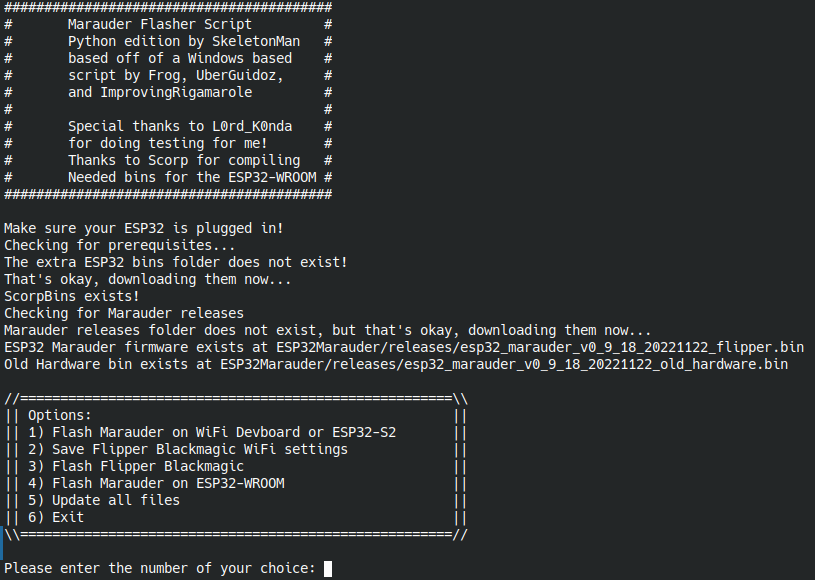
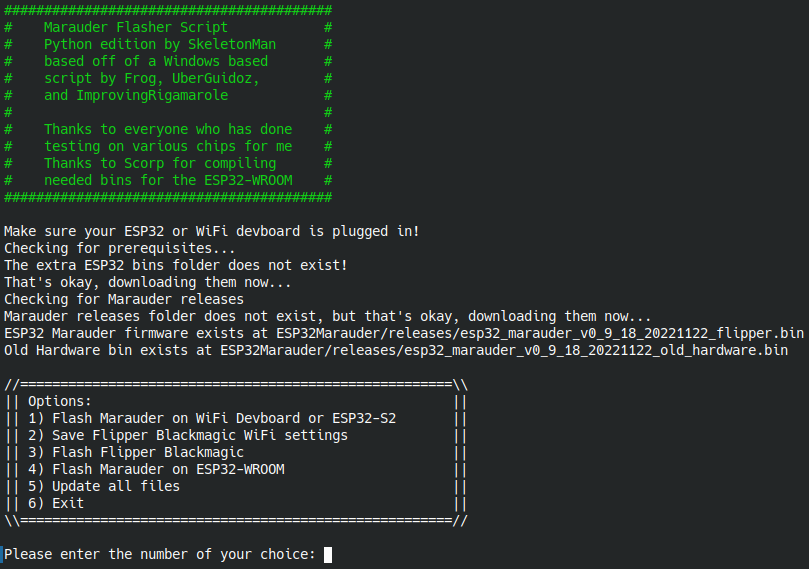
Fixed hacky code
Fixed hacky checks for each chip and improved detection of the proper serial port. Also added some color and cleaned up a bit

Changed region(s): [[0.0, 0.0, 1.0, 1.0]]

diff --git a/EasyInstall.py b/EasyInstall.py
@@ -9,125 +9,65 @@ import serial.tools.list_ports
 import requests
 import json
 import esptool
-OPENASCII='''
+from colorama import Fore, Back, Style
+
+OPENASCII=Fore.GREEN+'''
 #########################################
-#	Marauder Flasher Script		#
-#	Python edition by SkeletonMan	#
-#	based off of a Windows based	#
-#	script by Frog, UberGuidoz,	#
-#	and ImprovingRigamarole		#
+#    Marauder Flasher Script		#
+#    Python edition by SkeletonMan	#
+#    based off of a Windows based	#
+#    script by Frog, UberGuidoz,	#
+#    and ImprovingRigamarole		#
 #					#
-#	Special thanks to L0rd_K0nda	#
-#	for doing testing for me!	#
-#	Thanks to Scorp for compiling	#
-#	Needed bins for the ESP32-WROOM	#
+#    Thanks to everyone who has done	#
+#    testing on various chips for me	#
+#    Thanks to Scorp for compiling	#
+#    needed bins for the ESP32-WROOM	#
 #########################################
-'''
+'''+Style.RESET_ALL
+
 print(OPENASCII)
-print("Make sure your ESP32 is plugged in!")
+print("Make sure your ESP32 or WiFi devboard is plugged in!")
 BR=str("115200")
 
-def checkfordevboardserialport():
+def checkforserialport():
 	global serialport
 	serialport=''
-	vid="303A"
+	vids=['303A','10C4','1A86',]
 	com_port=None
 	ports=list(serial.tools.list_ports.comports())
-	for port in ports:
-		if vid in port.hwid:
-			serialport=port.device
+	for vid in vids:
+		for port in ports:
+			if vid in port.hwid:
+				serialport=port.device
+				device=vid
 	if serialport=='':
-		print("WiFi Devboard or ESP32-S2 was not detected!")
-		checkforotheresp32s2()
-	return
-
-def checkforotheresp32s2():
-	print("Checking for other ESP32-S2")
-	global serialport
-	serialport=''
-	vid="10C4"
-	com_port=None
-	ports=list(serial.tools.list_ports.comports())
-	for port in ports:
-		if vid in port.hwid:
-			serialport=port.device
-	if serialport=='':
-		print("No ESP32-S2 was detected!")
-		checkforknockoffesp32s2()
-	else:
-		print("You are using some other ESP32 chip. Hopefully an ESP32-S2 chip with 4MB of flash")
-	return
-
-def checkforknockoffesp32s2():
-	print("Checking for knock-off ESP32-S2")
-	global serialport
-	serialport=''
-	vid="1A86"
-	com_port=None
-	ports=list(serial.tools.list_ports.comports())
-	for port in ports:
-		if vid in port.hwid:
-			serialport=port.device
-	if serialport=='':
-		print("No ESP32-S2 was detected!")
-		print("Please plug in a WiFi Devboard or ESP32-S2 and try again")
+		print(Fore.RED+"No ESP32 device was detected!"+Style.RESET_ALL)
+		print(Fore.RED+"Please plug in a Flipper WiFi devboard or an ESP32 chip and try again"+Style.RESET_ALL)
 		choose_fw()
-	else:
-		print("You are using a knockoff ESP32 of some kind (hopefully an S2 or an S2-WROVER)! Success is not guaranteed!")
-	return
+	if device=='':
+		return
+	elif device=='303A':
+		print(Fore.Blue+"You are most likely using a Flipper Zero WiFi Devboard or an ESP32-S2"+Style.RESET_ALL)
+	elif device=='10C4':
+		print(Fore.BLUE+"You are most likely using an ESP32-WROOM or an ESP32-S2-WROVER"+Style.RESET_ALL)
+	elif device=='1A86':
+		print(Fore.MAGENTA+"You are most likely using a knock-off ESP32 chip! Success is not guaranteed!"+Style.RESET_ALL)
 
-def checkforesp32serialport():
-	global serialport
-	serialport=''
-	vid="10C4"
-	com_port=None
-	ports=list(serial.tools.list_ports.comports())
-	for port in ports:
-		if vid in port.hwid:
-			serialport=port.device
-	if serialport=='':
-		print("ESP32-WROOM is not plugged in!")
-		checkforknockoffesp32serialport()
-	return
-
-def checkforknockoffesp32serialport():
-	print("Checking for knock-off ESP32-WROOM")
-	global serialport
-	serialport=''
-	vid="1A86"
-	com_port=None
-	ports=list(serial.tools.list_ports.comports())
-	for port in ports:
-		if vid in port.hwid:
-			serialport=port.device
-	if serialport=='':
-		print("ESP32-WROOM is not plugged in!")
-		print("Please plug in an ESP32-WROOM then try again")
-		choose_fw()
-	else:
-		print("Warning! You are using a knockoff ESP32-WROOM! Success is not guaranteed!")
-	return
-
-def checkforscorpbins():
-	global scorpbins
-	scorpbins=(extraesp32bins+"/Marauder/WROOM")
-	if os.path.exists(scorpbins):
-		print("ScorpBins exists!")
-	else:
-		print("The ScorpBins folder does not exist!")
 	return
 
 def checkforextrabins():
 	extraesp32binsrepo="https://github.com/UberGuidoZ/Marauder_BINs.git"
 	global extraesp32bins
 	extraesp32bins=("Extra_ESP32_Bins")
+	global scorpbins
+	scorpbins=(extraesp32bins+"/Marauder/WROOM")
 	if os.path.exists(extraesp32bins):
 		print("The extra ESP32 bins folder exists!")
 	else:
 		print("The extra ESP32 bins folder does not exist!")
 		print("That's okay, downloading them now...")
 		Repo.clone_from(extraesp32binsrepo, extraesp32bins)
-	checkforscorpbins()
 	return
 
 def choose_fw():
@@ -146,24 +86,24 @@ def choose_fw():
 	print(choices)
 	fwchoice=int(input("Please enter the number of your choice: "))
 	if fwchoice==1:
-		print("You have chosen to flash Marauder on a WiFi devboard or ESP32-S2!")
+		print("You have chosen to flash Marauder on a WiFi devboard or ESP32-S2")
 		chip="esp32s2"
-		checkfordevboardserialport()
+		checkforserialport()
 		flash_esp32marauder()
 	elif fwchoice==2:
 		print("You have chosen to save Flipper Blackmagic WiFi settings")
 		chip="esp32s2"
-		checkfordevboardserialport()
+		checkforserialport()
 		save_flipperbmsettings()
 	elif fwchoice==3:
 		print("You have chosen to flash Flipper Blackmagic")
 		chip="esp32s2"
-		checkfordevboardserialport()
+		checkforserialport()
 		flash_flipperbm()
 	elif fwchoice==4:
 		print("You have chosen to flash Marauder onto an ESP32-WROOM")
 		chip="esp32"
-		checkforesp32serialport()
+		checkforserialport()
 		flash_esp32wroom()
 	elif fwchoice==5:
 		print("You have chosen to update all of the files")
@@ -173,7 +113,8 @@ def choose_fw():
 		print("Exiting!")
 		exit()
 	else:
-		print("Invalid option!")
+		print(Fore.RED+"Invalid option!"+Style.RESET_ALL)
+		exit()
 	return
 
 def erase_esp32fw():
@@ -269,8 +210,6 @@ def update_option():
 		shutil.rmtree("ESP32Marauder")
 	if os.path.exists("Extra_ESP32_Bins"):
 		shutil.rmtree("Extra_ESP32_Bins")
-	if os.path.exists("esptool"):
-		shutil.rmtree("esptool")
 	prereqcheck()
 	return
 

diff --git a/README.md b/README.md
@@ -10,33 +10,33 @@ If you are flashing an ESP32 board, you need to install the [driver from here](h
 ## It is now simple to install or update Marauder on Linux, Mac OS X, or Windows.
 # How to use: 
 * Step 0 only has to be ran once
-0) run `pip3 install -r requirements.txt`. 
+0) run `pip install -r requirements.txt`. 
 1) Connect the devboard via USB.
 2) Press and hold the `BOOT` button on the module, press and release the `RESET` button.
 3) Release the BOOT button. 
-5) run `python3 EasyInstall.py`. 
+5) run `python EasyInstall.py`. 
 6) Select the option of what you want to do
 
-* Important note: You may need to run this script with `sudo` or as Administrator in Windows
-* Second important note: If you're flashing an ESP32-WROOM, you should only need to do steps 0, 1, 4, and 5   
+* Important note: You may need to run this script with `sudo` or as Administrator in Windows   
 
 ## This project is based on the Windows Marauder flasher batch script
 
 You can find it [here in UberGuidoZ's repo](https://github.com/UberGuidoZ/Flipper/blob/main/Wifi_DevBoard/FZ_Marauder_Flasher)
 
-## Improvements over the batch script
+## About this script
 This script pulls all of its resources from the proper Github repositories in order to make sure you are up-to-date.  
 The only dependencies it does not get by itself are the required Python modules and Windows tools.  
-This script is now capable of flashing Marauder onto an ESP32-WROOM.  
-This script can also flash at least 1 knockoff ESP32-WROOM.  
+This script is now capable of flashing Marauder onto an ESP32-WROOM, ESP32-S2-WROVER, and some knock-off boards.  
+This script should work on most devices that can run Python 3 and can access serial ports via USB.  
 
 ## Compatible boards
 * Flipper Zero WiFi Devboard  
 * ESP32-S2 (The ESP chip that is on the WiFi Devboard)  
+* ESP32-S2-WROVER
 * ESP32-WROOM  
 
-## How to connect an ESP32-WROOM to the Flipper Zero
-ESP32-WROOM -> Flipper Zero  
+## How to connect an ESP32-WROOM,WROVER,etc to the Flipper Zero
+ESP32 -> Flipper Zero  
 TX0 -> RX  
 RX0 -> TX  
 GND -> GND  
@@ -47,7 +47,6 @@ GND -> GND
 * Add more chip compatibility.
 * Fix Windows bug where files cannot be deleted in order to be updated
 * Attempt to accommodate 3rd-party knock-off chips that are not from Espressif
-* Possibly just check for any possible chip VID and use that instead of the mess I created
 
 ## Acknowledgements:
 Disclaimer: Includes Acknowledgements from the above linked repo from UberGuidoz as this wouldn't exist without the original project
